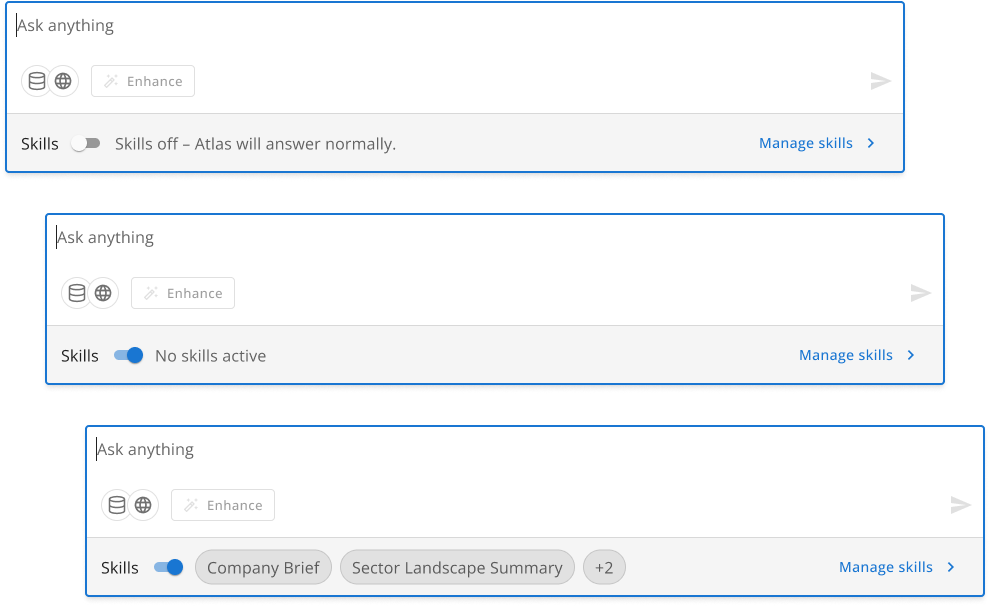
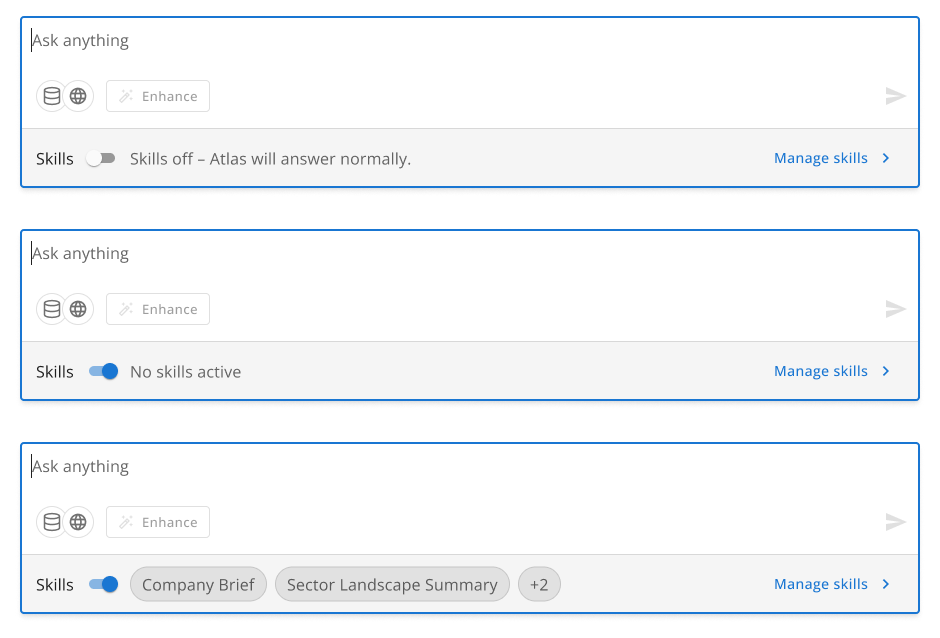
Polish Research Assistant case study
- Drop the Phase 3 screenshot; phase headings at section-heading size
- Restack the skills bar states left-aligned at the enhance-states scale
- Pull captions up to their images; more space between features
- Blue chips for Context / Scope / Sources; no rules above user needs
- New greeting screens in the hero, full-page chat and edit drawer
- Mention the officer survey in What's next

diff --git a/case-studies/research-assistant.html b/case-studies/research-assistant.html
@@ -51,7 +51,7 @@
     </div>
 
     <div class="ed-hero">
-      <img src="../assets/img/research-assistant.png" alt="Two angled laptops: the Research Assistant chat home behind, and the Skills library with a skill detail drawer in front">
+      <img src="../assets/img/research-assistant.png" alt="Two angled laptops: the Research Assistant chat home greeting the officer behind, and the Skills library with a skill detail drawer in front">
     </div>
   </header>
 
@@ -67,7 +67,7 @@
     <h2>From chatbot to research platform</h2>
     <p>The product went through three distinct phases, <strong>each shaped by what we learned from the one before</strong>.</p>
 
-    <div class="cs-issue">
+    <div class="cs-issue phase">
       <span class="yr">Phase 01 · Concept and research</span>
       <h3>Touchpoints AI</h3>
       <p>A chatbot embedded in the “Past Touchpoints” section of a company page in EnterpriseSG’s data platform. <strong>Scoped entirely to that company’s engagement history</strong>, it let officers ask about past interactions (eg. call reports, past meetings) without leaving their current view.</p>
@@ -79,7 +79,7 @@
       <p>Implication: the assistant had to bring internal data and web research together in one place.</p>
     </div>
 
-    <div class="cs-issue">
+    <div class="cs-issue phase">
       <span class="yr">Phase 02 · Beta</span>
       <h3>Sidebar + Full page chat</h3>
       <p>I designed two surfaces in parallel: a <strong>sidebar chatbot</strong> for company-specific queries, embedded in the existing platform, and a standalone <strong>full-page chat</strong> for broader research across companies and sectors.</p>
@@ -89,7 +89,7 @@
           <figcaption>Sidebar chat</figcaption>
         </figure>
         <figure class="cs-shot">
-          <img class="soft" src="../assets/img/research-assistant/full-page-chat.jpg" alt="Full-page Research Assistant chat with suggested prompts under the input" loading="lazy">
+          <img class="soft" src="../assets/img/research-assistant/full-page-chat.jpg" alt="Full-page Research Assistant chat greeting the officer by name, with suggested prompts under the input" loading="lazy">
           <figcaption>Full-page chat</figcaption>
         </figure>
       </div>
@@ -104,45 +104,44 @@
       <p>Officers struggled to discover the sidebar and preferred the full-page chat for everything. <strong>We decommissioned the sidebar.</strong></p>
       <p class="cs-aside">Insight: officers weren’t just reviewing one company. They were synthesising across companies, sectors and sources, and wanted one surface to do it all.</p>
 
-      <h4 class="cs-subhead sm">Top issues identified</h4>
+      <h4 class="cs-subhead lg">Top issues identified</h4>
       <p>As a user,</p>
       <div class="cs-needs">
         <div>
-          <span class="yr issue">Context</span>
+          <span class="yr theme">Context</span>
           <p>I want the agent to <strong>understand our context</strong>, like sector resolution, brief format and writing style.</p>
         </div>
         <div>
-          <span class="yr issue">Scope</span>
+          <span class="yr theme">Scope</span>
           <p>I want my queries <strong>grounded in a specific company</strong>, without restating it in every prompt.</p>
         </div>
         <div>
-          <span class="yr issue">Sources</span>
+          <span class="yr theme">Sources</span>
           <p>I want to see the <strong>web sources</strong> consulted, and open the underlying call reports <strong>without leaving the interface</strong>.</p>
         </div>
       </div>
     </div>
 
-    <div class="cs-issue">
+    <div class="cs-issue phase">
       <span class="yr">Phase 03 · Current</span>
       <h3>Agentic research platform</h3>
       <p>Those findings reshaped the product. Rather than asking a question and receiving an answer, officers now brief the agent: <strong>setting scope, activating skills</strong>, and <strong>letting the agent plan, query, synthesise and evaluate on its own</strong> before responding. The officer delegates; the agent handles the research workflow.</p>
       <p class="cs-aside">Insight: access to information wasn’t the bottleneck. Officers needed to be able to shape how the agent worked, not just what it searched.</p>
-      <div class="cs-img"><img src="../assets/img/research-assistant/agentic.jpg" alt="Skills library with a skill detail drawer, overlapped by the chat with 4 companies and 3 skills active and the Add companies to context drawer open" loading="lazy"></div>
     </div>
   </section>
 
-  <section class="cs-section">
+  <section class="cs-section features">
     <h2>Key features</h2>
     <p>The beta findings shaped the 13 features that followed. Here are some of the key ones, the problem each solved and the decisions behind them.</p>
 
-    <span class="yr issue">Context</span>
+    <span class="yr theme">Context</span>
     <h3>Skills and prompt enhancement</h3>
     <p>Beta feedback made it clear that officers weren’t struggling to access information. They struggled to ask for it in a way that produced useful results. <strong>Different officers expected different formats, tone and depth</strong>, and the agent had no way to account for that by default. I designed two features that tackle this at different points.</p>
 
     <h4 class="cs-subhead">1. Skills</h4>
     <p>Skills are <strong>small, reusable instruction bundles</strong> that <strong>teach the agent how to execute a specific task consistently</strong>. For example, an officer activating the “Sector Landscape Summary” skill gets a structured overview of market size, key players and trends, without spelling any of that out in every prompt.</p>
     <p>The challenge was making skills feel lightweight and within reach, not like a settings menu buried in a corner. <strong>The skills bar sits directly beneath the input</strong>, always visible. A manage link opens the library, where a drawer lets officers preview a skill while keeping the list in view.</p>
-    <figure class="cs-shot cs-img mid">
+    <figure class="cs-shot cs-img mid mid-sm">
       <img src="../assets/img/research-assistant/skills-bar.png" alt="Three states of the skills bar under the input: skills off, no skills active, and two skills active plus 2 more" loading="lazy">
       <figcaption>Skills bar within input box</figcaption>
     </figure>
@@ -159,7 +158,7 @@
       <figcaption>Enhance button state progression: empty → below-threshold → ready → streaming → complete → error</figcaption>
     </figure>
 
-    <span class="yr issue">Scope</span>
+    <span class="yr theme">Scope</span>
     <h3>Company scoping</h3>
     <p>Officers needed a way to point queries at specific companies without breaking the flow of starting a conversation. Early versions treated scope as a single-company toggle, but feedback made it clear that scope had to <strong>support multiple companies</strong>.</p>
     <p><strong>Key constraint:</strong> scope had to be set before the first message. Changing it mid-session would invalidate the conversation context, so the <strong>entry point had to be clear</strong>, and the locked state had to explain itself rather than surface as an error.</p>
@@ -204,10 +203,13 @@
         <figcaption>Config line below input as a single compact strip</figcaption>
       </figure>
       <p>Clicking Edit opens a <strong>right-side drawer</strong> where scoped companies appear as chips, and officers can search to add or remove them. <strong>Changes are staged before they’re applied</strong>, so half-finished edits never take effect. Once confirmed, the config line and input placeholder update to match.</p>
-      <div class="cs-img"><img class="soft" src="../assets/img/research-assistant/editing-companies.jpg" alt="Chat with the Add companies to context drawer open in edit mode, showing selected companies as chips" loading="lazy"></div>
+      <figure class="cs-shot cs-img">
+        <img class="soft" src="../assets/img/research-assistant/editing-companies.jpg" alt="Chat scoped to 3 companies with the Edit companies in scope drawer open: selected companies as removable chips, a search for lorem with 2 results, and an Update scope button" loading="lazy">
+        <figcaption>Edit drawer; search to add or remove companies, then apply with Update scope</figcaption>
+      </figure>
     </div>
 
-    <span class="yr issue">Sources</span>
+    <span class="yr theme">Sources</span>
     <h3>Source attribution</h3>
     <p>From the earliest interviews, <strong>trust was the central concern</strong>: officers wanted to know how a response was reached and where it came from before relying on it. So source attribution had to be visible at every stage of the research, not just appended to a finished answer. Two components carry this across the product.</p>
 
@@ -237,7 +239,7 @@
     </div>
 
     <h3>What’s next</h3>
-    <p>I’m now designing the next release, including a <strong>skills library</strong> and <strong>secure file upload</strong>, and using live usage data to decide what to prioritise after that.</p>
+    <p>I’m now designing the next release, including a <strong>skills library</strong> and <strong>secure file upload</strong>. Alongside that, we’re in the midst of <strong>surveying officers</strong> on how they use the assistant day to day: which tasks they bring to it, where its answers fall short, and what would make it a regular part of their workflow. Their responses will shape the roadmap beyond this release.</p>
   </section>
 
   <nav class="ed-next" aria-label="More work">

diff --git a/assets/css/editorial.css b/assets/css/editorial.css
@@ -82,7 +82,6 @@ body.ed{
 .ed .cs-stats.three{ grid-template-columns:repeat(3,1fr); }
 .ed .cs-stats span{ display:block; font-size:14px; line-height:1.45; color:var(--ed-sub); }
 .ed .cs-needs{ display:grid; grid-template-columns:repeat(3,1fr); gap:28px; margin:20px 0 32px; }
-.ed .cs-needs > div{ padding-top:16px; border-top:2px solid var(--z-ink); }
 .ed .cs-section .cs-needs p{ font-size:15px; margin:0; }
 
 .ed .cs-links a{ border-width:1px; }
@@ -138,6 +137,15 @@ body.ed{
 .ed .cs-subhead.sm{ font-size:15px; margin-top:28px; }
 /* neutral chip for steps (iterations), so coral stays for Context / Scope / Sources */
 .ed .yr.step{ background:#ebebf0; color:var(--z-ink); }
+/* blue chip for themes that aren't problems (Research Assistant's Context / Scope / Sources), where coral would read as an error */
+.ed .yr.theme{ background:var(--z-bg); color:#fff; }
 .ed .cs-section > .yr + h3, .ed .cs-issue > .yr + h4{ margin-top:0; }
 /* a section split into several h2-level parts (e.g. Ingenico's design walkthrough) */
 .ed .cs-section.multi > h2:not(:first-of-type){ margin-top:64px; }
+/* phase timeline headings (Research Assistant) read at section-heading size */
+.ed .cs-issue.phase h3{ font-size:clamp(24px,3vw,32px); line-height:1.08; }
+/* a features walkthrough: more air between features so captions stay with their image */
+/* (the first chip keeps the default 40px so it reads as part of the intro) */
+.ed .cs-section.features > .yr ~ .yr{ margin-top:72px; }
+.ed .cs-section.features > .cs-shot + .cs-subhead{ margin-top:56px; }
+.ed .cs-section.features > .cs-shot + .cs-shot{ margin-top:48px; }

diff --git a/assets/css/style.css b/assets/css/style.css
@@ -223,11 +223,17 @@ a{ color:inherit; text-decoration:none; }
 /* captioned images: .cs-shot = unboxed image with caption below; .cs-fig = boxed (filter tab panels) */
 .cs-shot{ margin:0; }
 .cs-shot.cs-img{ margin:28px 0 32px; }
+/* the grid gap meant for side-by-side images pushed captions away; pull them back to 10px */
+.cs-shot.cs-img > figcaption{ margin-top:-14px; }
+/* shadowed (.soft) images have no built-in padding like the PNGs, so give their captions the full gap */
+.cs-shot.cs-img > img.soft + figcaption{ margin-top:0; }
 .cs-shot figcaption{
   font-family:'JetBrains Mono',monospace; font-size:11.5px; color:var(--z-sub);
   letter-spacing:.02em; text-align:center; margin-top:10px;
 }
 .cs-img.mid{ max-width:640px; margin-left:auto; margin-right:auto; }
+/* inputs narrower than enhance-states.png: 940px source at the same 640/1156 scale */
+.cs-img.mid.mid-sm{ max-width:520px; }
 .cs-img.mid img{ border-radius:8px; }
 .cs-img img.flat{ border-radius:0; box-shadow:none; }
 .cs-img.narrow{ max-width:820px; margin-left:auto; margin-right:auto; }
